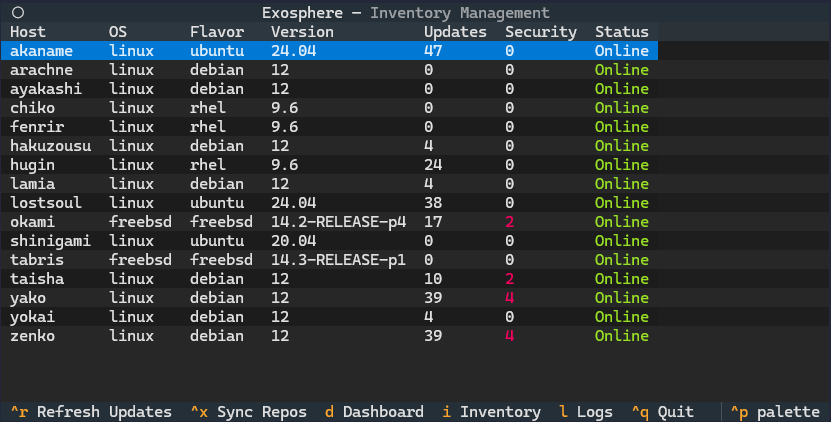
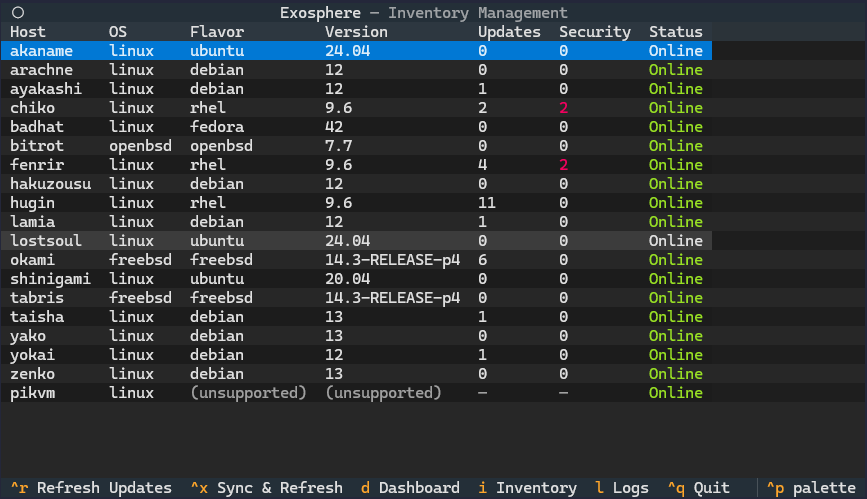
Docs: Document new ^x behavior, update screenshot
The `^x` keybind now performs a sync and refresh operation in sequence.
The documentation has been updated to reflect this change as well as
updating the inventory screen screenshot to show the new keybind.

A new note box has also been added to warn users that syncing may take
a long time depending on inventory size and host specifications.

Changed region(s): [[0.0, 0.0, 1.0, 0.8318], [0.0, 0.955, 0.8424, 1.0], [0.8724, 0.955, 0.9928, 1.0]]

diff --git a/docs/source/ui.rst b/docs/source/ui.rst
@@ -119,7 +119,13 @@ The Inventory screen provides a detailed view of all the hosts in your inventory
 The following operations can be performed from the Inventory screen:
 
 - **Refresh Updates**: Press `ctrl+r` to refresh the updates for all hosts.
-- **Sync Repos**: Press ``ctrl+x`` to sync the package repositories on all hosts.
+- **Sync & Refresh**: Press `ctrl+x` to sync the repositories and refresh updates
+  for all hosts.
+
+.. admonition:: Note
+
+   Syncing repositories may take a long time depending on inventory size and
+   host specifications.
 
 It functions almost identically to the ``inventory status`` command in the CLI,
 but it allows you to navigate the rows with the Arrow Keys.
